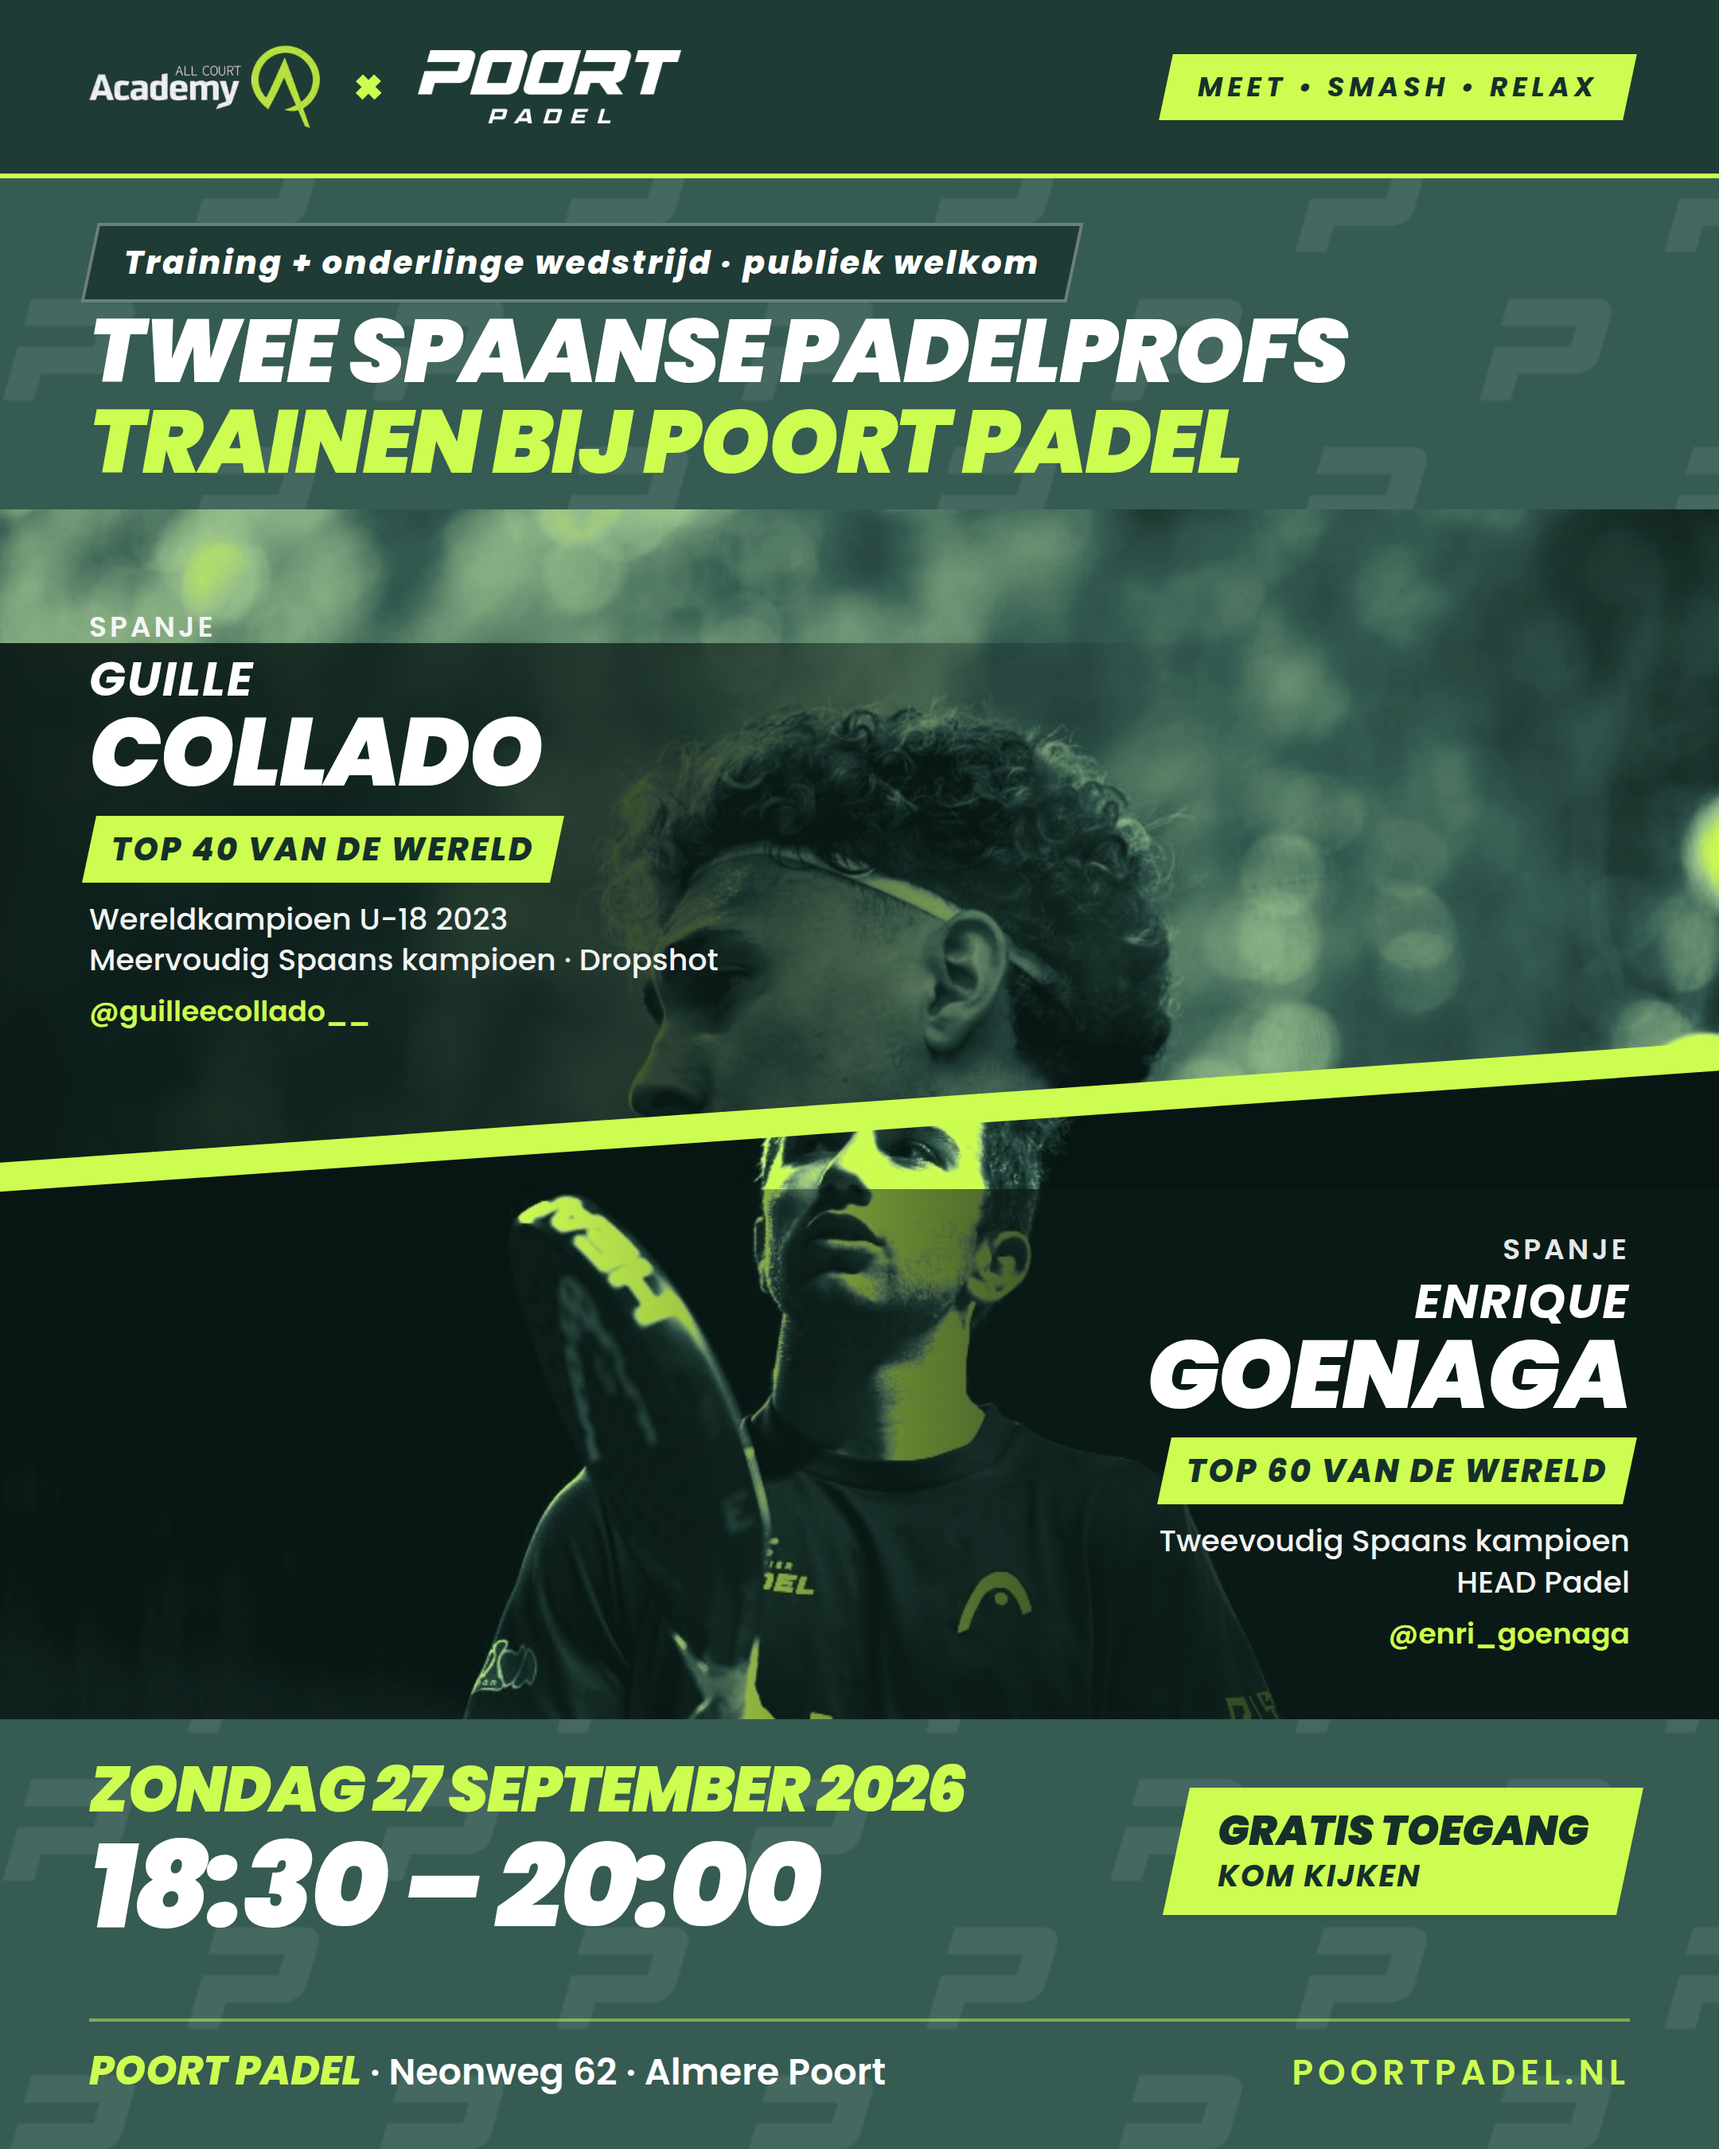
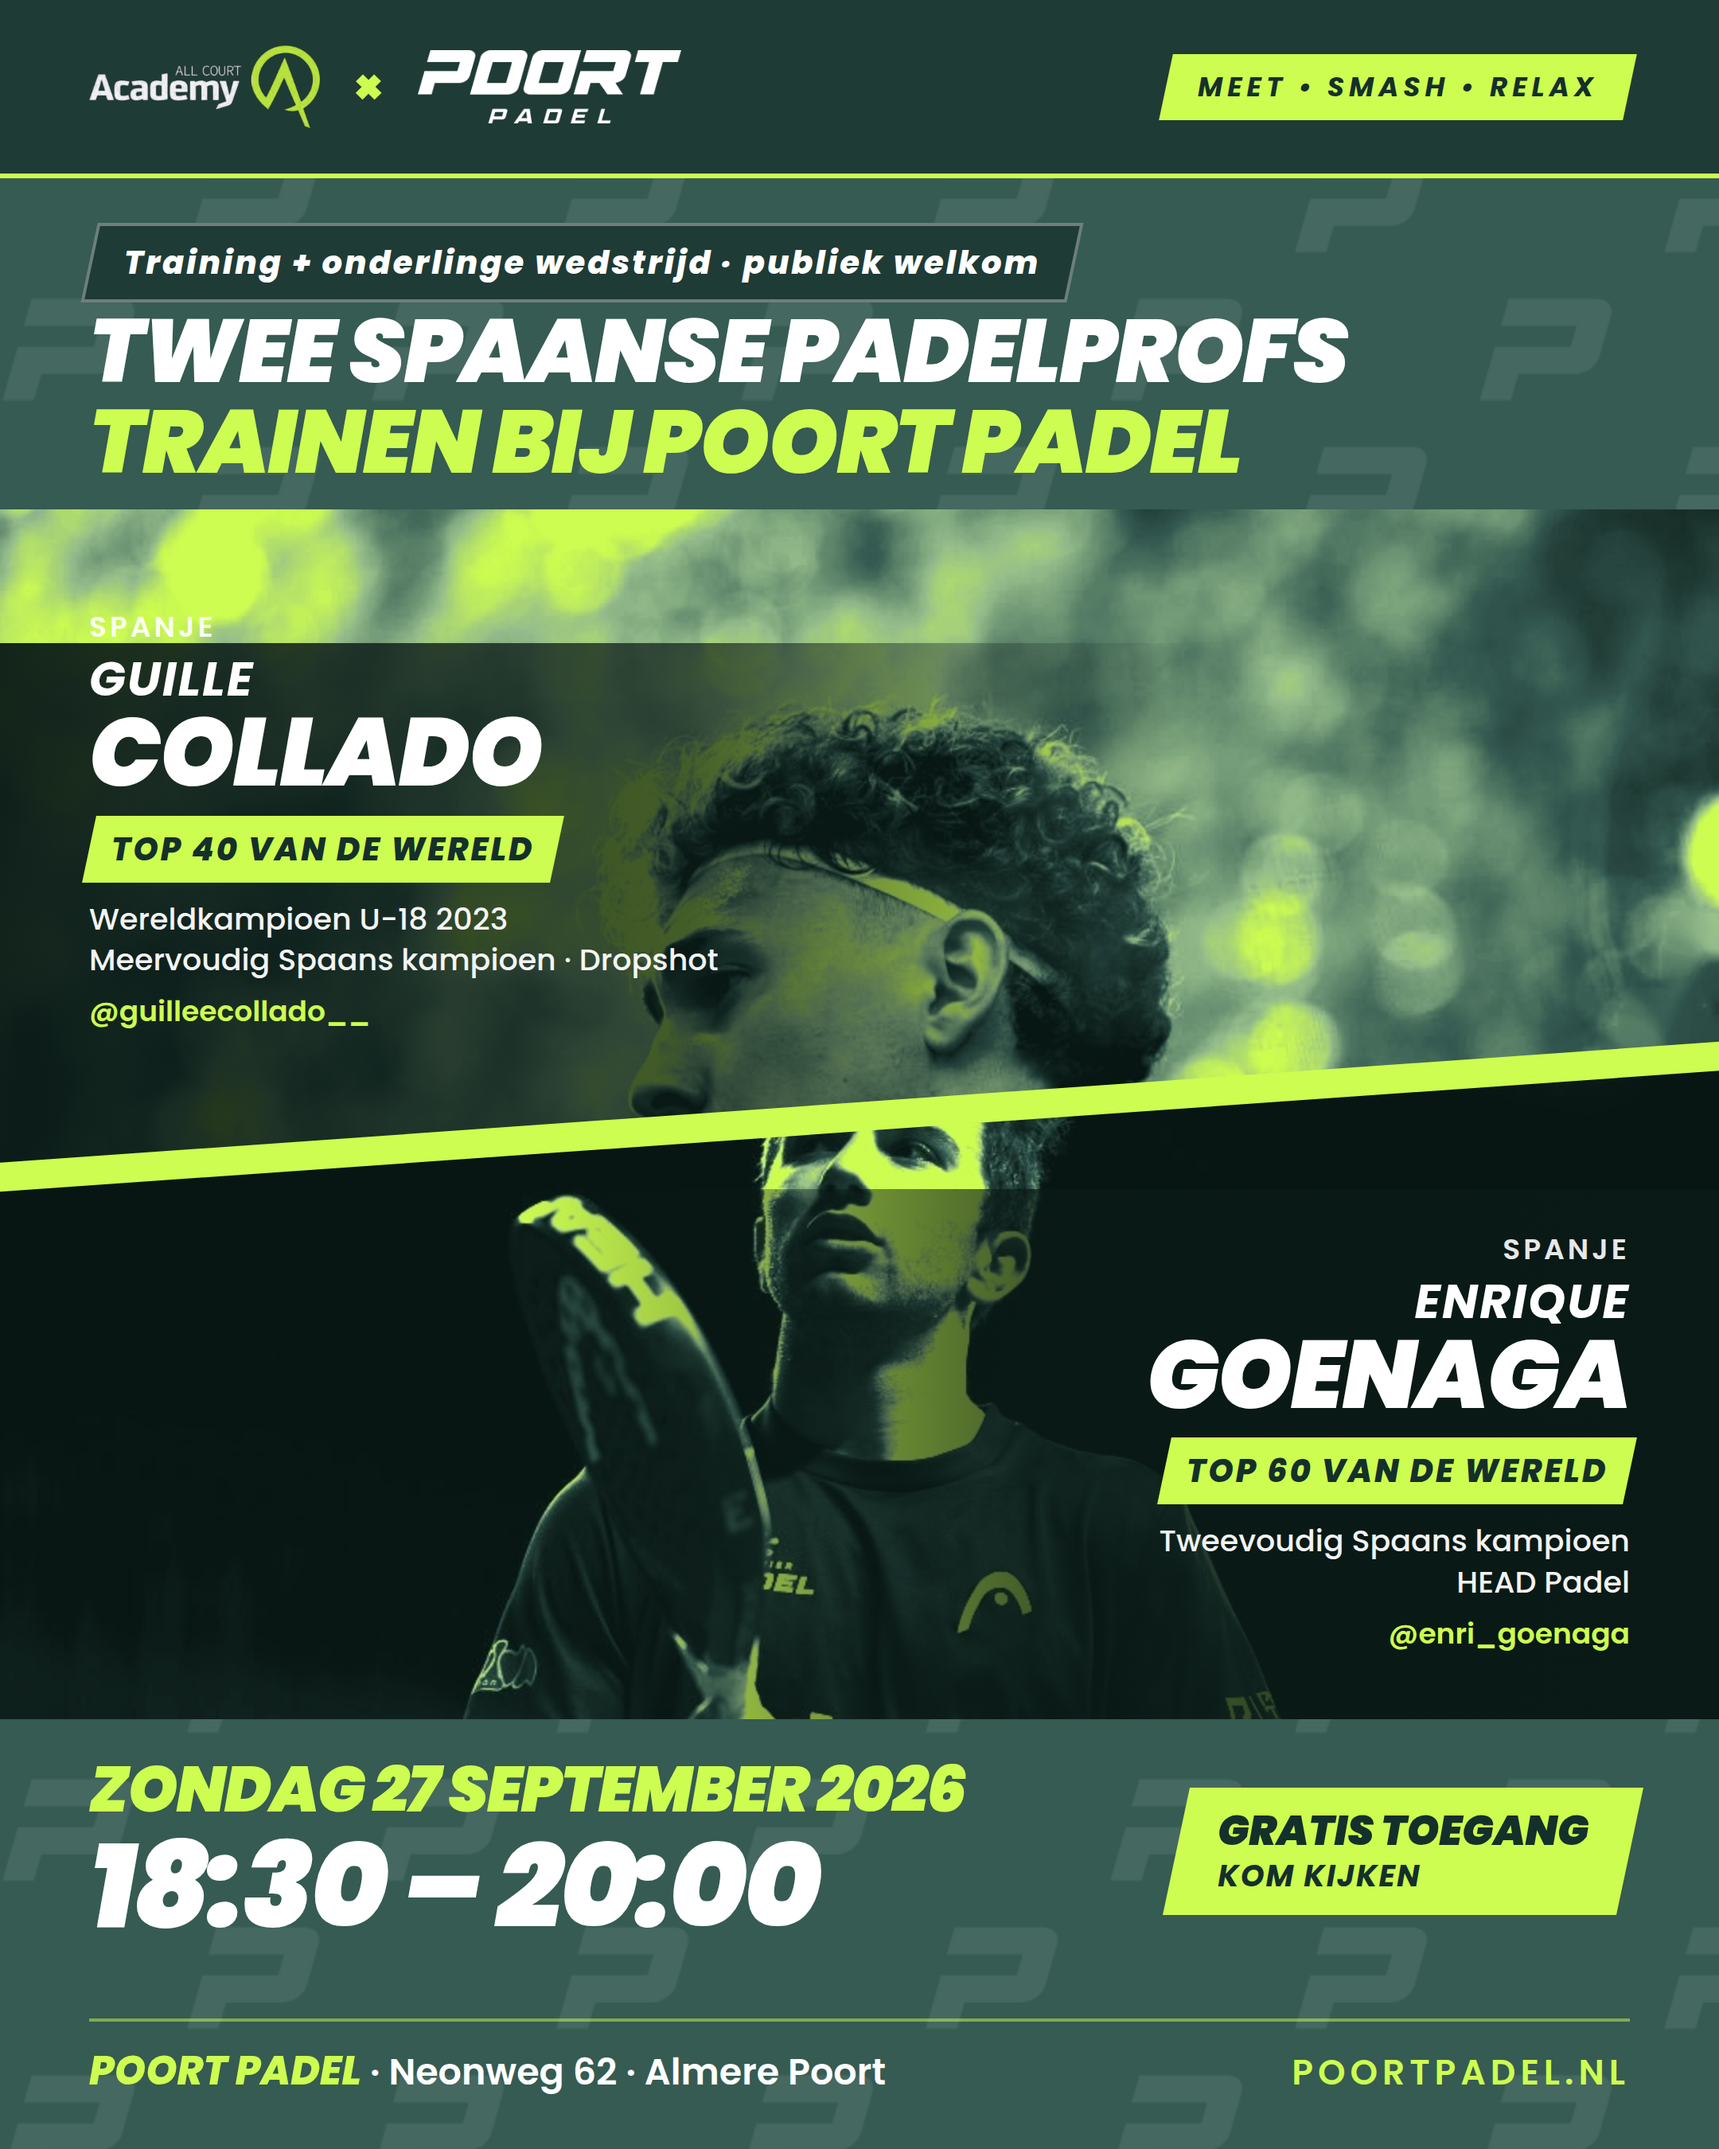
Poster Goenaga & Collado: lensflare over Collado's arm weggewerkt
Inpainting van de lichte streep in collado-profile.jpg voordat de
duotone wordt gemaakt; alle varianten opnieuw gerenderd.

Claude-Session: https://claude.ai/code/session_01XvRhSgAuPfNbbAXDCSXsBF

Changed region(s): [[0.0, 0.2178, 1.0, 0.5289], [0.4343, 0.4044, 0.6204, 0.5289]]

diff --git a/events/2026-poort-padel-goenaga-collado/build_clean_collado.py b/events/2026-poort-padel-goenaga-collado/build_clean_collado.py
@@ -1,0 +1,17 @@
+"""Werkt de lensflare (lichte streep over borst en arm) weg uit collado-profile.jpg met OpenCV-inpainting.
+Schrijft build/collado-profile-clean.jpg; daarna build_duotone.py draaien."""
+import cv2, numpy as np
+
+im = cv2.imread('assets/collado-profile.jpg'); h, w = im.shape[:2]
+hsv = cv2.cvtColor(im, cv2.COLOR_BGR2HSV)
+S, V = hsv[:, :, 1].astype(int), hsv[:, :, 2].astype(int)
+region = np.zeros((h, w), np.uint8)
+cv2.line(region, (540, 770), (1079, 390), 255, 150)   # streep over borst en bovenarm
+cv2.line(region, (960, 580), (1079, 430), 255, 110)   # kleine flare aan de rechterrand
+flare = ((V > 165) & (S < 120)) | (V > 200)           # licht en/of verbleekt; het blauwe shirt blijft verzadigd
+mask = cv2.bitwise_and((flare * 255).astype(np.uint8), region)
+mask = cv2.morphologyEx(mask, cv2.MORPH_CLOSE, np.ones((15, 15), np.uint8))
+mask = cv2.dilate(mask, np.ones((11, 11), np.uint8), iterations=2)
+out = cv2.inpaint(im, mask, 12, cv2.INPAINT_TELEA)
+cv2.imwrite('build/collado-profile-clean.jpg', out, [cv2.IMWRITE_JPEG_QUALITY, 95])
+print('klaar, maskerpixels:', int(mask.sum() / 255))

diff --git a/events/2026-poort-padel-goenaga-collado/build_duotone.py b/events/2026-poort-padel-goenaga-collado/build_duotone.py
@@ -19,6 +19,6 @@ def duotone(im, dst, stops=STOPS):
 
 
 if __name__ == '__main__':
-    duotone(Image.open('assets/collado-profile.jpg'), 'build/collado-profile-duotone.jpg')
+    duotone(Image.open('build/collado-profile-clean.jpg'), 'build/collado-profile-duotone.jpg')  # lensflare over de arm weggewerkt, zie build_clean_collado.py
     duotone(Image.open('assets/goenaga-profile.jpg'), 'build/goenaga-duotone.jpg')
     duotone(Image.open('assets/collado-post-06.jpg').crop((0, 0, 1170, 1150)), 'build/collado-duotone.jpg')

diff --git a/events/2026-poort-padel-goenaga-collado/README.md b/events/2026-poort-padel-goenaga-collado/README.md
@@ -169,3 +169,7 @@ Lars koos variant A. Daarna aangepast in alle varianten:
 - De achtergrond-P is nu de echte Poort Padel-P (uit het ballogo geknipt naar `build/p-poort-padel.png`), in een verspringend raster net als op de banners van Poort Padel. `build_variants.py` maakt daar de tegels `build/p-pattern-groen.png` en `build/p-pattern-lime.png` van; dichtheid en zichtbaarheid regel je met `pw`, `gx`, `gy` en `alpha` in `make_pattern`.
 
 Definitief bestand voor Instagram: `poster-a-1080x1350.png`; voor scherm of print `poster-a-2160x2700.png`.
+
+## Lensflare bij Collado weggewerkt (22 september 2026)
+
+Op `collado-profile.jpg` loopt een lichte streep (lensflare) over borst en bovenarm; in duotone werd dat een lime streep "door zijn arm". `build_clean_collado.py` werkt die weg met OpenCV-inpainting (masker: lichte of verbleekte pixels binnen een smalle strook langs de flare, het blauwe shirt blijft staan) en schrijft `build/collado-profile-clean.jpg`. `build_duotone.py` gebruikt sindsdien die schone versie. Volgorde bij een nieuwe foto: `build_clean_collado.py` (alleen als er iets weg moet), `build_duotone.py`, `build_variants.py`, `render.sh`.
